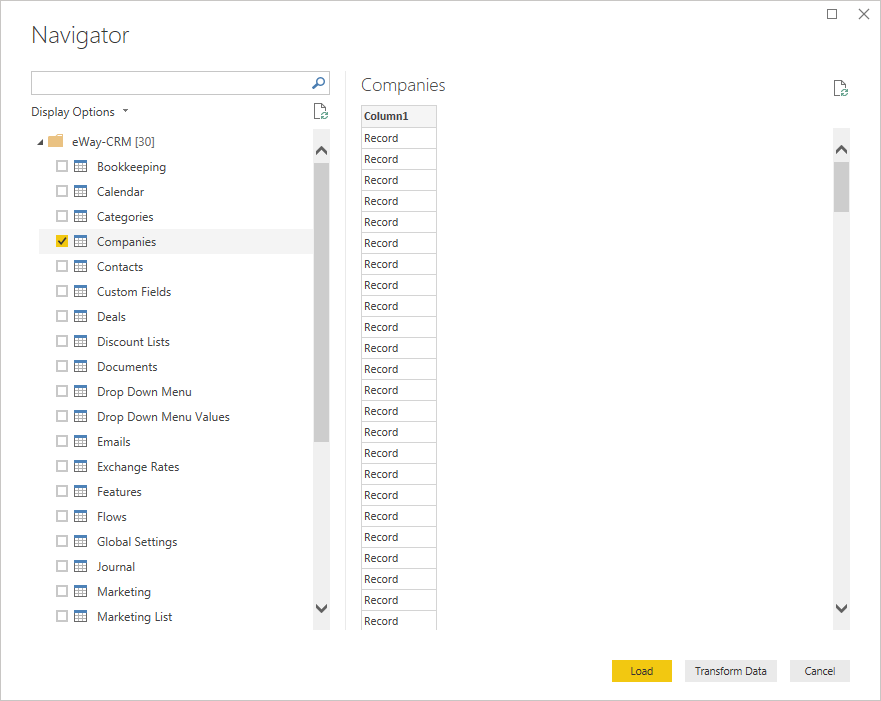
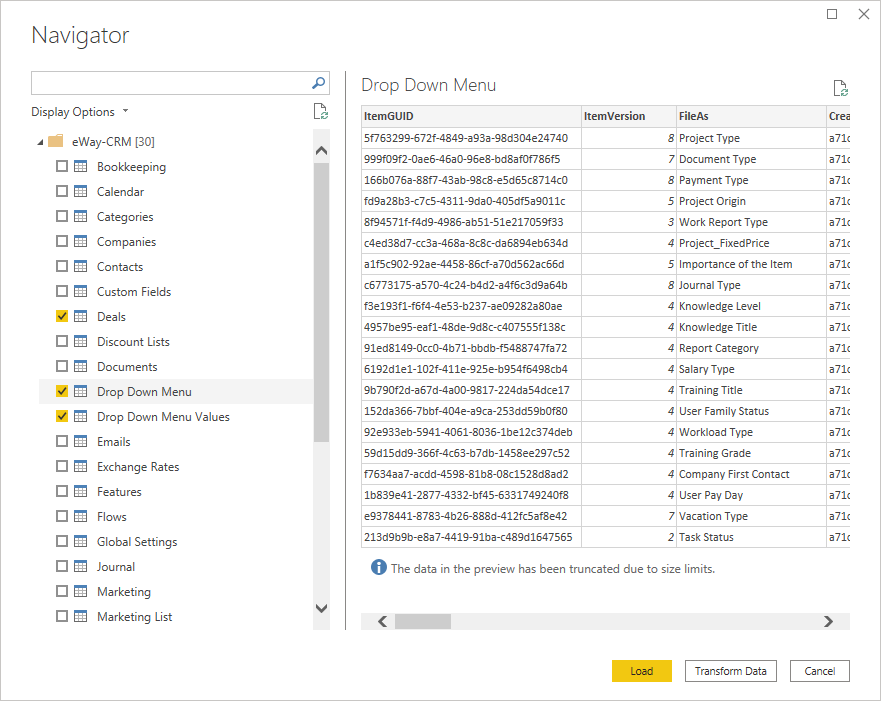
Updated readme for version 1.4

diff --git a/README.md b/README.md
@@ -29,10 +29,6 @@ Fill in your eWay-CRM credentials. **Password** has to be hashed using **MD5**. 
 
 After that Navigator menu will appear with all supported tables.
 
-Select required tables and click **Transform Data** to convert JSON structure to a Table.
+Select required tables and click **Load**.
 
 ![navigator](Images/navigator.png)
-
-Click on the Expand icon in the Column1 header and select required columns. After you click OK data will be converted to a table.
-
-![expand_columns](Images/expand_columns.png)
